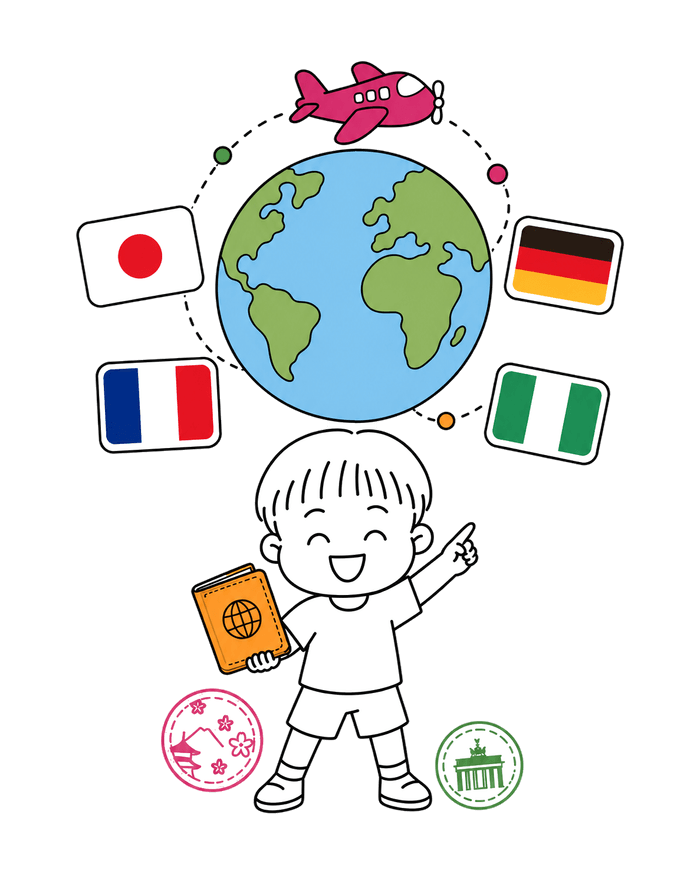
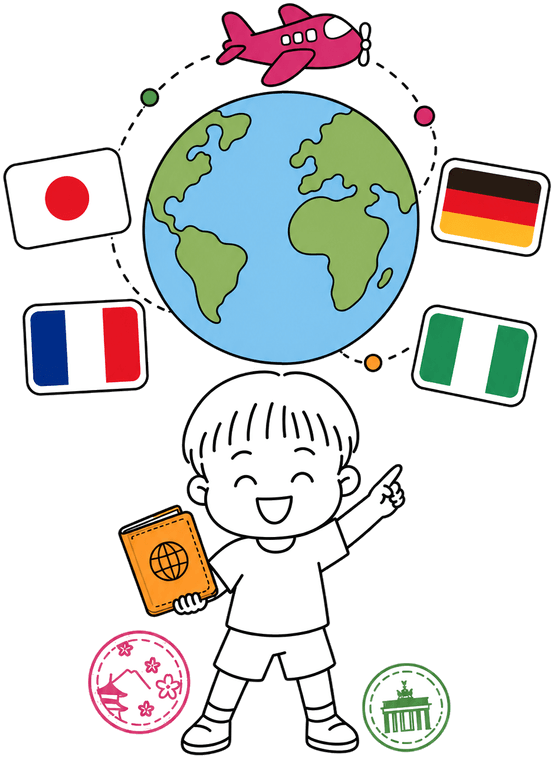
비행기 모션 빼고, 첫 화면 그림을 키움
- 정답 카드의 비행기 연출 삭제. 지나가던 자리(48px 빈 띠)도 같이 없어져
  카드가 `정답이에요!`부터 바로 시작한다. 도장·색종이 연출은 그대로
- 히어로 이미지의 투명 여백을 잘라냄 (700x875 → 554x758, 가로 21%가 여백이었다)
- 세로로 긴 그림이라 가로 그림용 높이(`h-[20vh]`)로는 폭이 81px밖에 안 나왔다.
  `h-[28vh] max-h-56`으로 키움 — 375x553에서 113x155, 844에서 164x224.
  34vh부터는 553 화면에서 아래가 넘쳐 넘치지 않는 최대값으로 잡았다

Changed region(s): [[0.0, 0.0, 1.0, 1.0], [0.2455, 0.091, 0.3069, 0.1517], [0.7058, 0.091, 0.7365, 0.1214]]

diff --git a/src/components/game/AnswerFeedback.tsx b/src/components/game/AnswerFeedback.tsx
@@ -36,21 +36,7 @@ export function AnswerFeedback({ result, country, reduceMotion, onNext }: Answer
             iPhone SE처럼 짧은 화면에서 버튼이 화면 밖으로 밀려나면 아이는 갇힌 것처럼 느낀다 */}
         <div className="flex min-h-0 flex-1 flex-col gap-3 overflow-y-auto">
         {isCorrect ? (
-          <div className="relative flex flex-col items-center gap-1 pb-1">
-            {/* 비행기가 지나가는 길. 제목과 겹치지 않게 위에 따로 띄우고,
-                양 끝에서 완전히 사라지도록 넉넉히 잘라 둔다 */}
-            <div className="relative h-12 w-full overflow-hidden">
-              <span
-                aria-hidden="true"
-                className={`absolute left-1/2 top-1/2 text-3xl ${
-                  reduceMotion
-                    ? "-translate-x-1/2 -translate-y-1/2 opacity-0"
-                    : "animate-[plane-fly_1.2s_ease-in-out_forwards]"
-                }`}
-              >
-                ✈
-              </span>
-            </div>
+          <div className="flex flex-col items-center gap-1 pb-1 text-center">
             <p className="text-xl font-black text-[var(--color-globe-deep)] font-[var(--font-display)]">정답이에요! 🎉</p>
             <p className="text-sm font-bold text-[var(--color-ink-soft)]">여권에 도장을 쾅 찍었어요</p>
           </div>

diff --git a/src/screens/HomeScreen.tsx b/src/screens/HomeScreen.tsx
@@ -49,11 +49,13 @@ export function HomeScreen({ onStart, onOpenPassport, onReviewMistakes }: HomeSc
   return (
     <div className="flex h-full flex-col items-center justify-center gap-4 overflow-y-auto bg-[var(--color-cream)] px-5 py-6 safe-top safe-bottom">
       <div className="flex flex-col items-center gap-2">
-        {/* 한 컷으로 무슨 게임인지 보여주는 자리. 로고가 아니라 콘텐츠다 */}
+        {/* 한 컷으로 무슨 게임인지 보여주는 자리. 로고가 아니라 콘텐츠다.
+            세로로 긴 그림이라 다른 서비스(가로 그림)와 같은 높이로 두면 작아 보인다.
+            375x553에서 아래가 잘리지 않는 선까지 키운 값이다 */}
         <img
           src={heroImage}
           alt="여권과 세계지도를 든 아이 캐릭터가 일본, 프랑스, 독일, 나이지리아 국기와 비행기에 둘러싸여 웃고 있는 그림"
-          className="h-[20vh] max-h-44 w-auto select-none"
+          className="h-[28vh] max-h-56 w-auto select-none"
           draggable={false}
         />
         <h1 className="font-[var(--font-display)] text-3xl font-black text-[var(--color-ink)]">국기 콕콕</h1>

diff --git a/src/index.css b/src/index.css
@@ -143,33 +143,6 @@ button {
   }
 }
 
-/*
- * 정답 카드 위를 가로지르는 비행기.
- *
- * 양 끝에서 **완전히 투명해진 채로 끝난다.** 어중간한 자리에 반쯤 남아 있으면
- * 날아가다 만 것처럼 보이고, 아래 제목 뒤로 숨는 것처럼 읽힌다.
- * 가운데에서 살짝 떠올랐다 내려가 한 번에 지나가는 느낌을 준다.
- */
-@keyframes plane-fly {
-  0% {
-    transform: translate(-50%, -50%) translateX(-150px) translateY(5px) rotate(-10deg);
-    opacity: 0;
-  }
-  22% {
-    opacity: 1;
-  }
-  50% {
-    transform: translate(-50%, -50%) translateX(0) translateY(-5px) rotate(0deg);
-  }
-  78% {
-    opacity: 1;
-  }
-  100% {
-    transform: translate(-50%, -50%) translateX(150px) translateY(5px) rotate(8deg);
-    opacity: 0;
-  }
-}
-
 @keyframes stamp-down {
   0% {
     transform: scale(2.2) rotate(-14deg);
